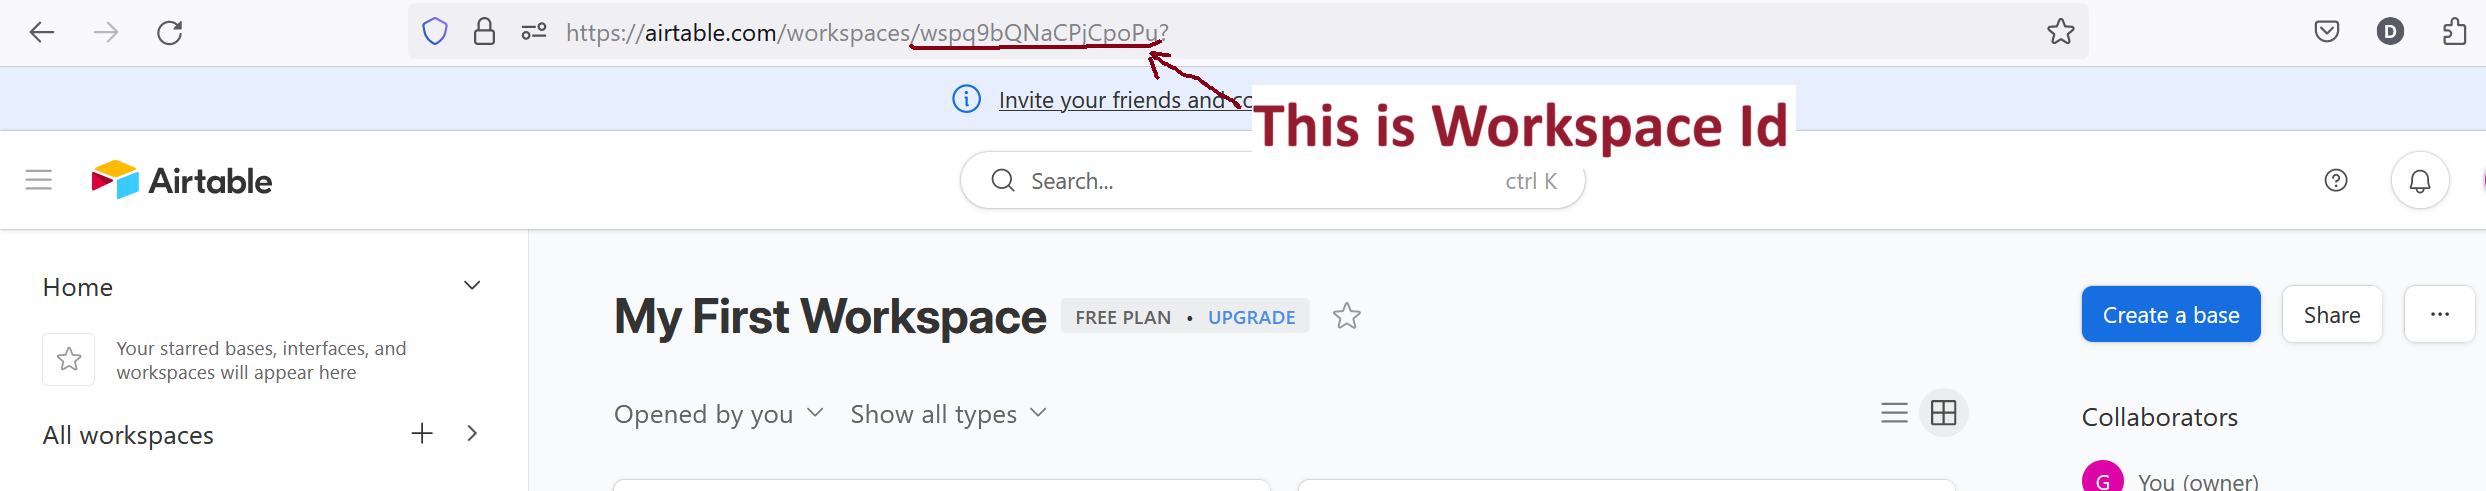
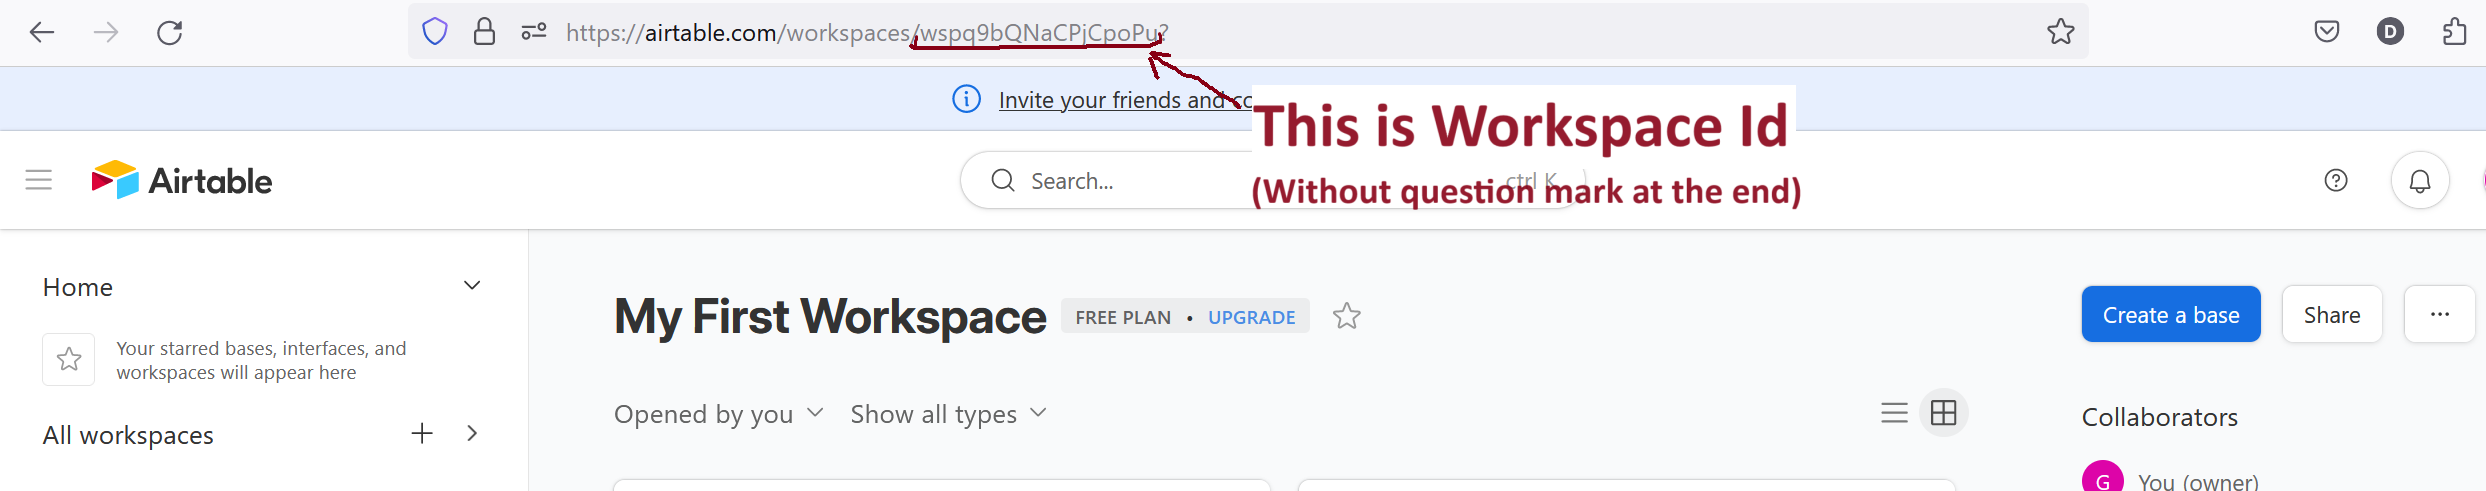
base creation bug solved

Changed region(s): [[0.4956, 0.3666, 0.7434, 0.4277]]

diff --git a/AI_logic/airtable.py b/AI_logic/airtable.py
@@ -19,7 +19,15 @@ auth_header = {
   "Content-Type": "application/json"
 }
 
-airtable = Airtable(base_id, table_id, token)
+
+# create new base if no base saved in .env file
+def create_base_if_needed():
+    global base_id, table_id
+    if not base_id:
+        base_id, table_id = create_base()
+        with open(".env", "a") as env_file:
+            env_file.write(f"\nAIRTABLE_BASE_ID={base_id}\n")
+            env_file.write(f"AIRTABLE_TABLE_ID={table_id}\n")
 
 
 def create_base():
@@ -57,6 +65,7 @@ def create_base():
       "workspaceId": workspace_id,
     }
 
+    print("Creating base...")
     response = requests.post(url_bases, headers=auth_header, data=json.dumps(data))
     base_id = response.json()['id']
     table_id = response.json()['tables'][0]['id']
@@ -127,9 +136,5 @@ def remove_expired_girls():
     airtable.batch_delete(girls_to_remove)
 
 
-# create new base if no base saved in .env file
-if not base_id:
-    base_id, table_id = create_base()
-    with open(".env", "a") as env_file:
-        env_file.write(f"\nAIRTABLE_BASE_ID={base_id}\n")
-        env_file.write(f"AIRTABLE_TABLE_ID={table_id}\n")
+create_base_if_needed()
+airtable = Airtable(base_id, table_id, token)

diff --git a/readme.md b/readme.md
@@ -23,7 +23,7 @@ After profile is created, set up your old profile default again (it sets created
 10. Provede your OpenAI API key from OpenAI website.
 11. Airtable:
 Now we need to set up Airtable to TinderGPT be available remember informations about girls. Additional plus of Airtable is that memory will be common for diifferent devices if you'll use TInderGPT on more than one computer. Go to airtable.com and create account if you have no. Go to Yor profile icon -> "Developer Hub" -> "Personal access token" and create new token. Write some name, under the "scopes" choose all possible options. Under the scope choose "All current and future bases in all current and future workspaces". Paste it to .env file after "AIRTABLE_TOKEN=".
-After to to main page -> "All workspaces" -> click on "My first workspace". When you entered workspace, at the adress bar of your browser you'll find workspace id as shown on the image. Question mark at the end is not part of the workspace id.
+After to to main page -> "All workspaces" -> click on "My first workspace". When you entered workspace, at the adress bar of your browser you'll find workspace id as shown on the image. IMPORTANT: Question mark at the end is not part of the workspace id.
 ![Airtable workspace](images/Airtable_workspace.png)
 Paste provided id after "AIRTABLE_WORKSPACE_ID=" on `.env` file.
 12. Pushbullet: Pushbullet needed to get phone notification every time TinderGPT receives contact from girl. If you just testing application for a first time, you can skip that step for now and return to it later. Go to pushbullet.com, at "My account" create access token and paste it after "PUSHBULLET_API_KEY=". Install pushbullet app on your phone and connect it with computer.
